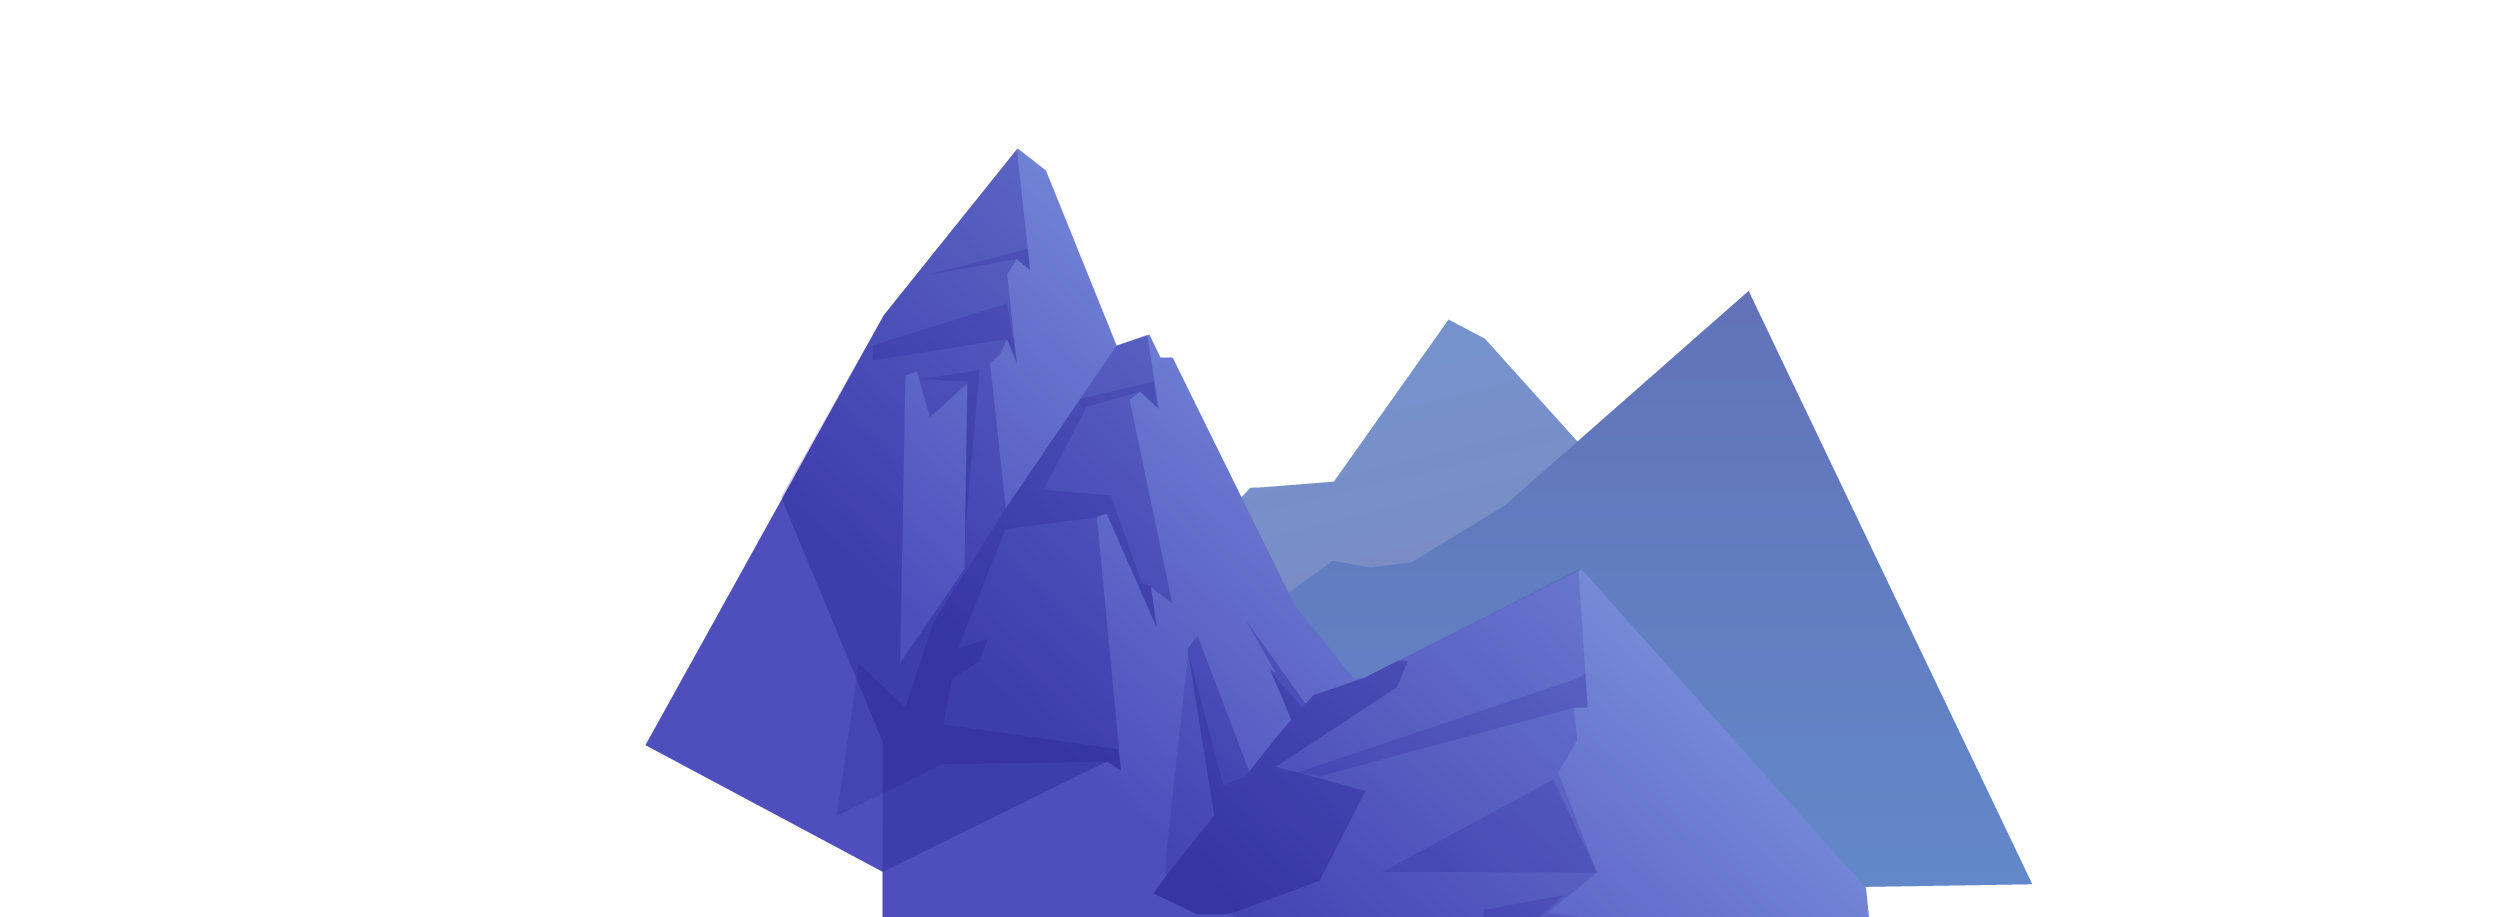
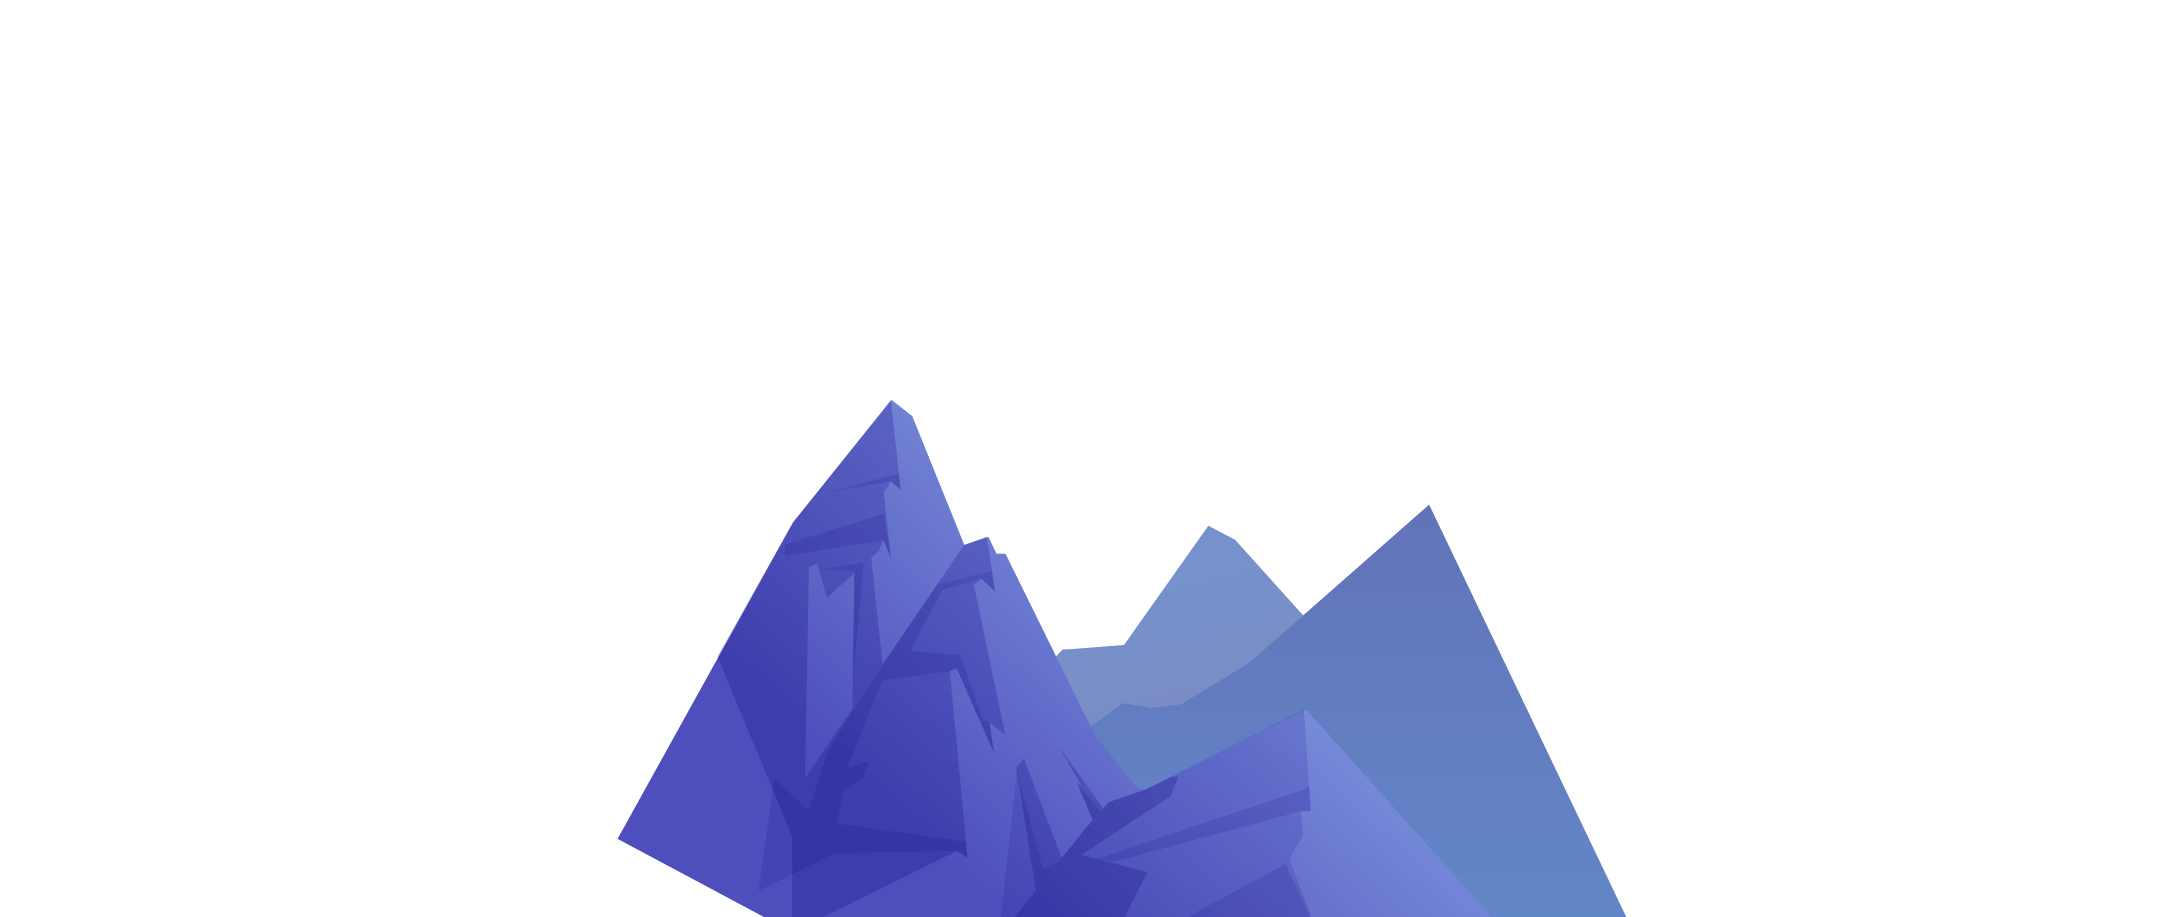
adicionando as imagens e o header

Changed region(s): [[0.2473, 0.1527, 0.8348, 1.0]]

diff --git a/scrolling parallax/style.css b/scrolling parallax/style.css
@@ -1,0 +1,96 @@
+@import url('https://fonts.googleapis.com/css2?family=Poppins:ital,wght@0,100;0,200;0,300;0,400;0,500;0,600;0,700;0,800;0,900;1,100;1,200;1,300;1,400;1,500;1,600;1,700;1,800;1,900&display=swap');
+
+*{
+    margin: 0;
+    padding: 0;
+    box-sizing: border-box;
+    font-family: 'Poppins', sans-serif
+}
+
+body{
+    min-height: 100vh;
+    background: linear-gradient(#2b1055, #7597de);
+}
+
+header{
+    position: absolute;
+    top: 0;
+    left: 0;
+    width: 100%;
+    padding: 30px 100px;
+    display: flex;
+    justify-content: space-between;
+    align-items: center;
+    z-index: 100;
+}
+
+header .logo{
+    color: #fff;
+    font-weight: 700;
+    text-decoration: none;
+    font-family: 2em;
+    text-transform: uppercase;
+    letter-spacing: 2px;
+}
+
+header ul{
+    display: flex;
+    justify-content: center;
+    align-items:center ;
+}
+
+header ul li{
+    list-style: none;
+    margin-left: 20px;
+}
+
+header ul li a{
+    text-decoration: none;
+    padding: 6px 15px;
+    color: #fff;
+    border-radius: 20px;
+    transition: ease-in-out 0.4s;
+}
+
+header ul li a:hover,
+header ul li a.active
+{
+    background: #fff;
+    color: #2b1055;
+}
+
+section{
+    position: relative;
+    width: 100%;
+    height: 100vh;
+    padding: 100px;
+    display: flex;
+    justify-content: center;
+    align-items: center;
+}
+
+section img{
+    position: absolute;
+    top: 0;
+    left: 0;
+    width: 100%;
+    height: 100%;
+    object-fit: cover;
+}
+
+section img#lua{
+    mix-blend-mode: screen;
+}
+section img#montanhas_frente{
+    z-index: 10;
+
+}
+
+
+#text{
+    position: absolute;
+    color: #fff;
+    white-space: nowrap;
+    font-size: 7.5vw;
+    z-index: 9;
+}

diff --git a/scrolling parallax/index.html b/scrolling parallax/index.html
@@ -5,8 +5,28 @@
     <meta http-equiv="X-UA-Compatible" content="IE=edge">
     <meta name="viewport" content="width=device-width, initial-scale=1.0">
     <title>Parallax Website</title>
+
+    <link rel="stylesheet" href="style.css">
 </head>
 <body>
     
+    <header>
+        <a href="#" class="logo">Logo</a>
+        <ul>
+            <li><a href="#" class="active">Home</a></li>
+            <li><a href="#">Sobre</a></li>
+            <li><a href="#">Trabalho</a></li>
+            <li><a href="#">Contato</a></li>
+        </ul>
+    </header>
+
+    <section>
+        <img src="./img/parallax_estrelas.png" id="estrelas" alt="">
+        <img src="./img/parallax_lua.png" id="lua" alt="">
+        <img src="./img/parallax_montanhas.png" id="montanhas_tras" alt="">
+        <h2 id="text">Moon light</h2>
+        <img src="./img/parallax_montanhas-frente.png" id="montanhas_frente" alt="">
+    </section>
+
 </body>
 </html>
